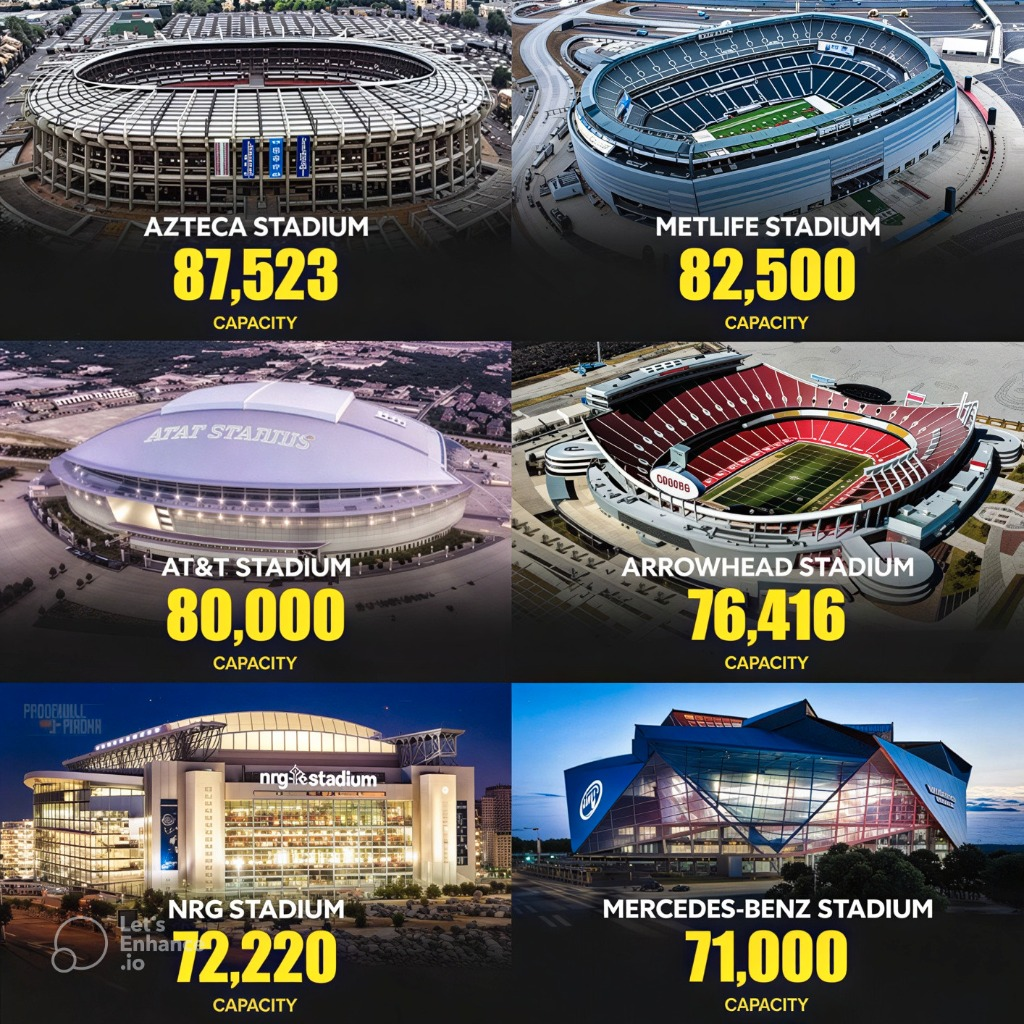
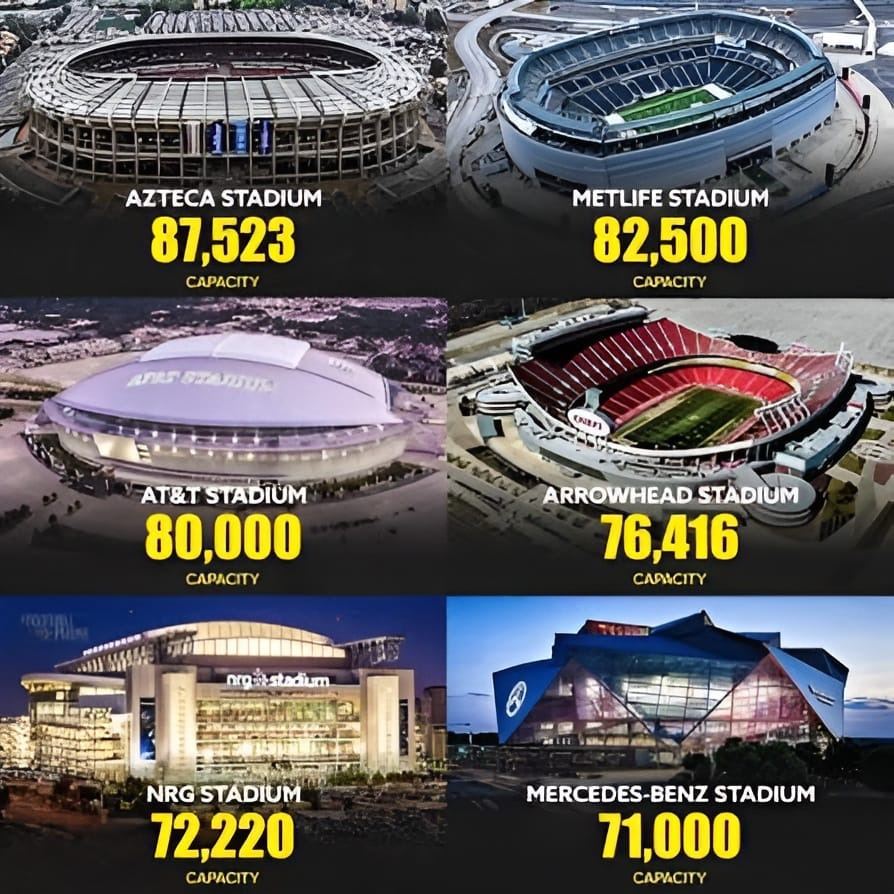
chore: image replacement and quality improvements

diff --git a/src/app/specialities/page.tsx b/src/app/specialities/page.tsx
@@ -300,7 +300,7 @@ export default function SpecialitiesPage() {
       <div ref={heroRef} className="relative min-h-screen flex items-center justify-center overflow-hidden">
         {/* Parallax Background */}
         <motion.div className="absolute inset-0" style={{ y: heroY }}>
-          <Image
+          <Image quality={100}
             src="/specialities/hero-banner.jpg"
             alt="FIFA World Cup 2026"
             fill
@@ -433,7 +433,7 @@ export default function SpecialitiesPage() {
 
         {/* FIFA Sound branding strip */}
         <div className="relative rounded-2xl overflow-hidden h-48 md:h-56">
-          <Image
+          <Image quality={100}
             src="/specialities/fifa-sound.jpg"
             alt="FIFA 2026 Official Theme"
             fill
@@ -525,7 +525,7 @@ export default function SpecialitiesPage() {
           className="relative rounded-2xl overflow-hidden mb-12"
           style={{ border: "1px solid rgba(255,215,0,0.2)" }}
         >
-          <Image
+          <Image quality={100}
             src="/specialities/stadiums.jpg"
             alt="FIFA 2026 Stadium Capacities"
             width={1200}
@@ -589,7 +589,7 @@ export default function SpecialitiesPage() {
           className="relative rounded-2xl overflow-hidden mb-12"
           style={{ border: "1px solid rgba(255,215,0,0.2)" }}
         >
-          <Image
+          <Image quality={100}
             src="/specialities/badges.jpg"
             alt="FIFA 2026 Badge System"
             width={1200}
@@ -710,7 +710,7 @@ export default function SpecialitiesPage() {
                 border: "1px solid rgba(255,255,255,0.1)",
               }}
             >
-              <Image
+              <Image quality={100}
                 src="/specialities/trionda-ball.jpg"
                 alt="Trionda Official Match Ball"
                 width={700}
@@ -809,20 +809,23 @@ export default function SpecialitiesPage() {
             whileInView={{ opacity: 1, x: 0 }}
             viewport={{ once: true }}
             transition={{ duration: 0.7 }}
-            className="relative rounded-2xl overflow-hidden"
+            className="relative rounded-2xl p-6 flex justify-center items-center"
             style={{
-              border: "1px solid rgba(0,99,255,0.25)",
-              boxShadow: "0 0 40px rgba(0,99,255,0.15)",
+              background: "rgba(13,27,53,0.7)",
+              backdropFilter: "blur(16px)",
+              border: "1px solid rgba(255,255,255,0.08)",
+              boxShadow: "0 4px 24px rgba(0,61,165,0.15)",
             }}
           >
-            <Image
-              src="/specialities/ball-tech.jpg"
-              alt="Trionda Smart Ball Technology"
-              width={700}
-              height={600}
-              className="w-full object-contain"
-              style={{ background: "#050a1a" }}
-            />
+            <div className="w-full max-w-[500px] rounded-xl overflow-hidden shadow-2xl border border-white/10" style={{ background: "#050a1a" }}>
+              <Image quality={100}
+                src="/specialities/ball-tech.jpg"
+                alt="Trionda Smart Ball Technology"
+                width={700}
+                height={700}
+                className="w-full h-auto object-contain"
+              />
+            </div>
           </motion.div>
         </div>
 